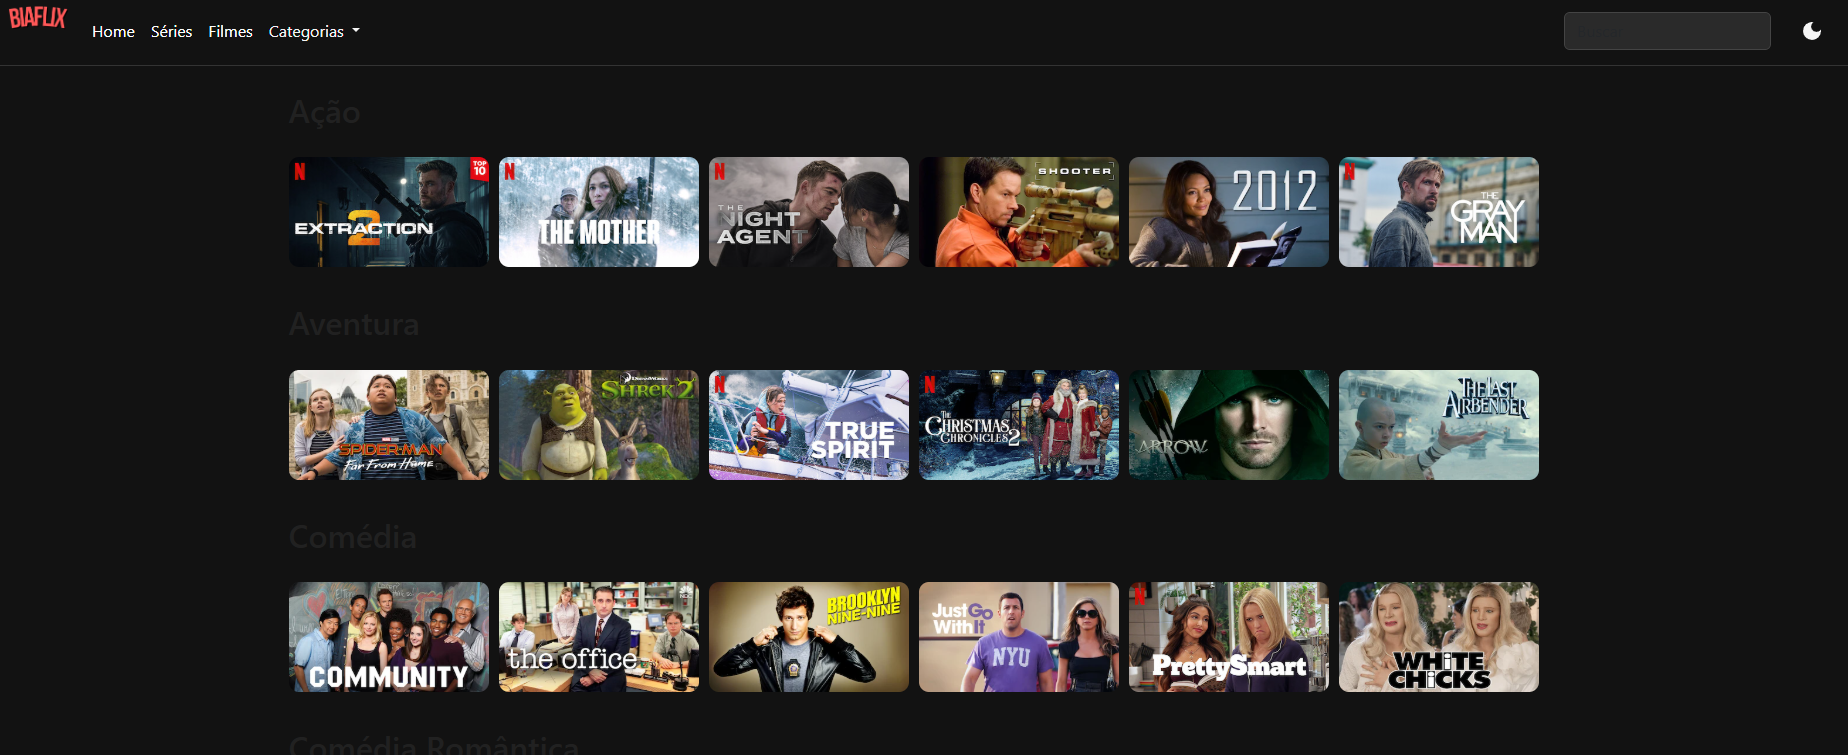
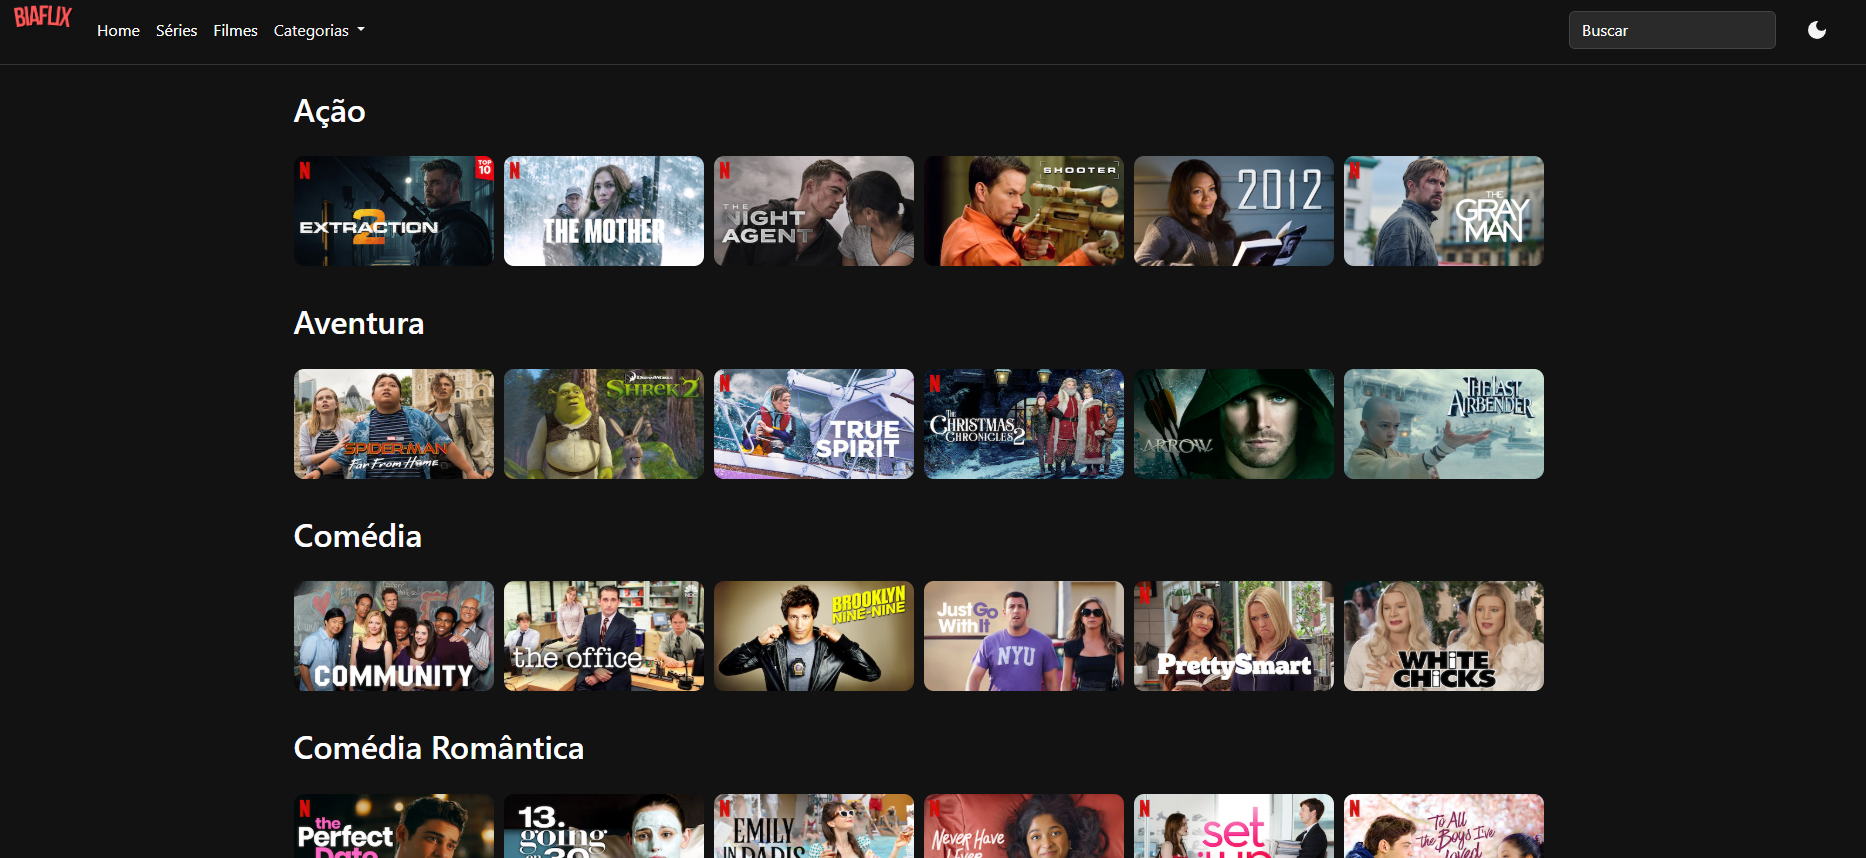
correção modo dark

diff --git a/src/assets/style.css b/src/assets/style.css
@@ -67,3 +67,31 @@ section .body {
   opacity: 0.8;
   transition: ease-in-out 0.2s;
 }
+.dark-mode h1,
+.dark-mode h2,
+.dark-mode h3,
+.dark-mode h4,
+.dark-mode h5,
+.dark-mode h6,
+.dark-mode .title {
+  color: #fff;
+}
+
+.dark-mode .categoria {
+  color: #fff;
+}
+
+.dark-mode input[type="text"],
+.dark-mode input[type="search"] {
+  color: #fff;
+  background-color: #222;
+}
+.dark-mode a {
+  color: #fff;
+}
+
+.dark-mode input[type="text"]::placeholder,
+.dark-mode input[type="search"]::placeholder {
+  color: #fff;
+  opacity: 1;
+}

diff --git a/index.html b/index.html
@@ -10,6 +10,7 @@
     integrity="sha384-GLhlTQ8iRABdZLl6O3oVMWSktQOp6b7In1Zl3/Jr59b6EGGoI1aFkw7cmDA6j6gD" crossorigin="anonymous">
 
   <title>Biafix</title>
+
 </head>
 
 <body>
